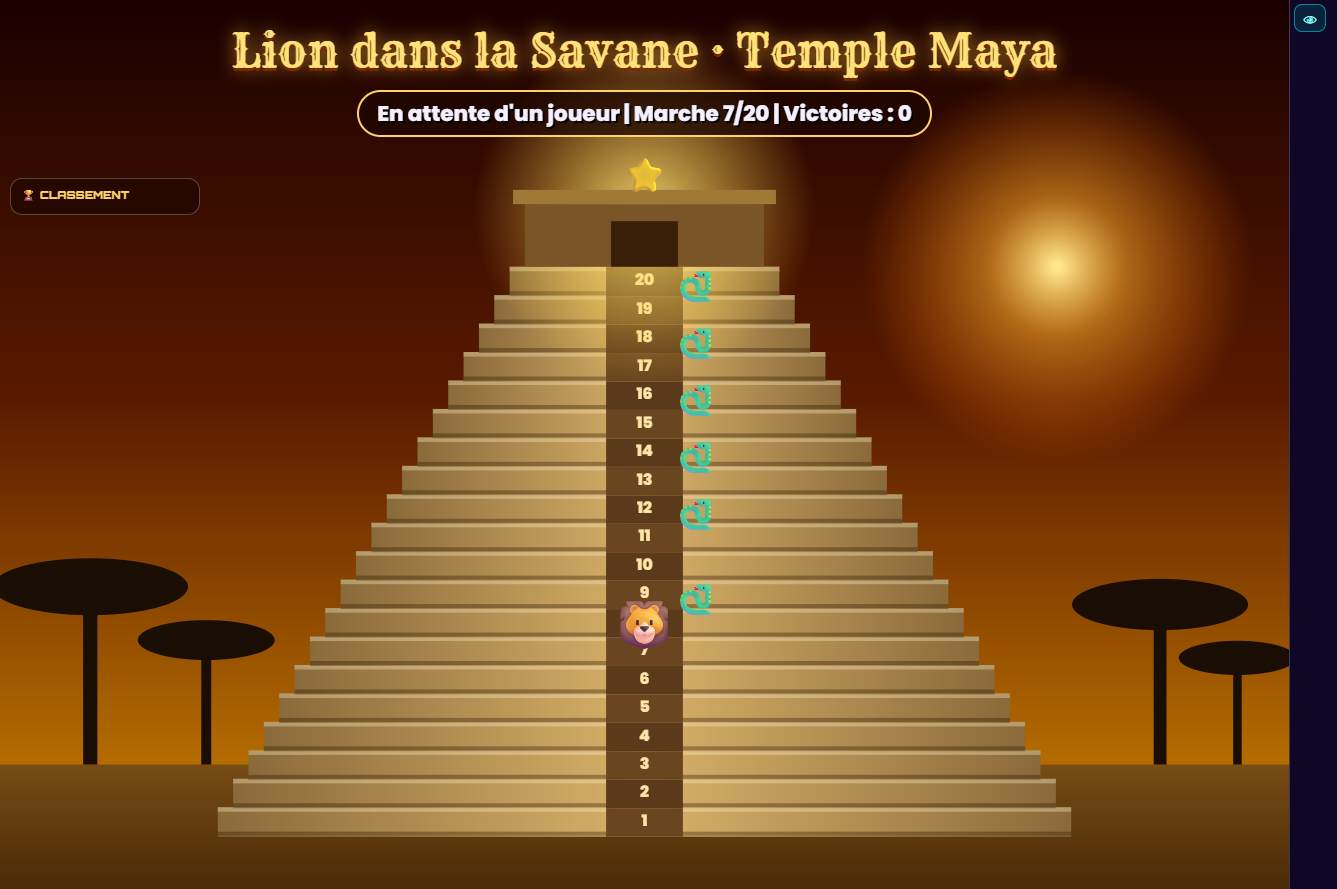
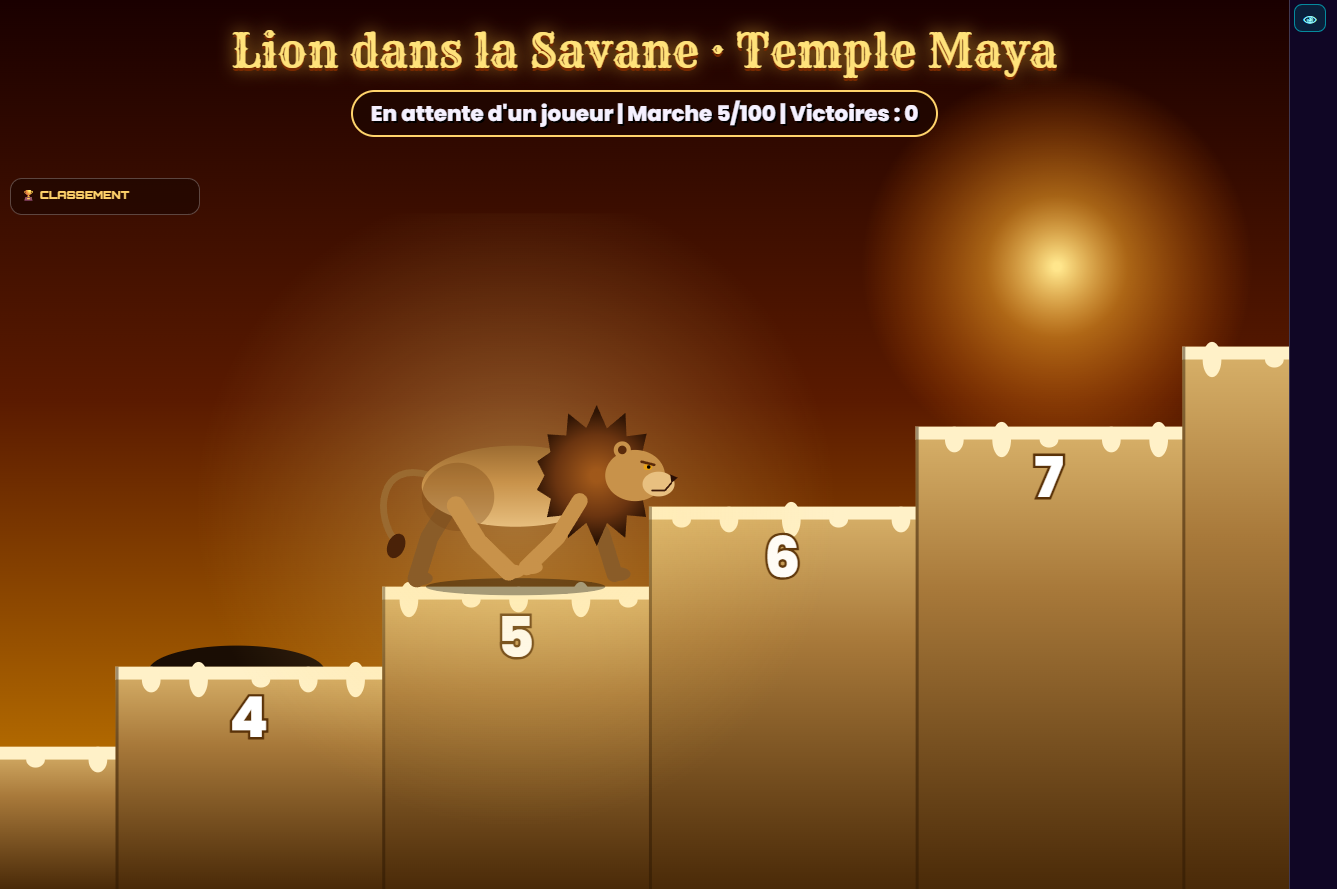
Lion Temple Maya : 100 marches, lion realiste a 4 pattes, style de marche du jeu de reference

diff --git a/lion-temple-maya.html b/lion-temple-maya.html
@@ -101,9 +101,9 @@
                 <h3>Réglages</h3>
                 <div class="row">
                     <label>⭐ au sommet<input id="summit" type="number" min="0" max="10000" value="100"></label>
-                    <label>🐍 obstacles<input id="obstacles" type="number" min="0" max="18" value="7"></label>
+                    <label>🐍 obstacles<input id="obstacles" type="number" min="0" max="60" value="33"></label>
                 </div>
-                <label>Recul après obstacle (marches)<input id="back" type="number" min="0" max="19" value="2"></label>
+                <label>Recul après obstacle (marches)<input id="back" type="number" min="0" max="99" value="2"></label>
             </section>
             <section class="box">
                 <h3>Simulateur (sans étoiles réelles)</h3>
@@ -130,8 +130,9 @@
         'use strict';
         const $ = id => document.getElementById(id);
         const SAVE_KEY = 'lion-temple-maya-save';
-        const TOP = 20;
-        const settings = { summit: 100, obstacles: 7, back: 2, speed: 1, hideBoard: false };
+        const TOP = 100, VIS = 14;
+        const settings = { summit: 100, obstacles: 33, back: 2, speed: 1, hideBoard: false };
+        let cam = 0;
         const viewers = new Map();
         const queue = [];
         let pos = 0, posDisp = 0, seg = null, moves = [], obst = new Set(), victories = 0;
@@ -187,67 +188,154 @@
         addEventListener('resize', resize);
 
         function geo() {
-            const w = canvas.width, h = canvas.height, base = h * 0.94, top = h * 0.3;
-            return { w, h, base, top, th: (base - top) / TOP, bw: Math.min(w * 0.78, (base - top) * 1.5), cx: w / 2 };
+            const w = canvas.width, h = canvas.height;
+            return { w, h, top: h * 0.3, th: h * 0.09, SW: h * 0.3, SH: h * 0.09, ax: w * 0.4, ay: h * 0.66, cx: w * 0.4 };
         }
-        const half = (g, i) => g.bw / 2 * (1 - 0.72 * i / TOP);
-        const stepY = (g, s) => g.base - s * g.th;
-        const lionSize = g => Math.max(28, Math.min(90, g.th * 1.7));
+        const smooth = t => t * t * (3 - 2 * t);
+        const jumpT = f => Math.min(1, Math.max(0, (f - 0.4) / 0.6));
+        function heightOf(p) {
+            const n = Math.min(TOP, Math.max(0, Math.floor(p)));
+            return n >= TOP ? TOP : n + smooth(jumpT(p - n));
+        }
+        const stepX = (g, s) => g.ax + (s - cam) * g.SW;
+        const stepY = (g, s) => g.ay - (s - heightOf(cam)) * g.SH;
 
         function buildObstacles() {
             obst = new Set();
-            const n = Math.min(18, Math.max(0, settings.obstacles));
+            const n = Math.min(TOP - 2, Math.max(0, settings.obstacles));
             while (obst.size < n) obst.add(rand(2, TOP - 1));
+        }
+
+        function drawStar(x, y, r) {
+            ctx.save();
+            const glow = ctx.createRadialGradient(x, y, 2, x, y, r * 3);
+            glow.addColorStop(0, 'rgba(255,230,120,.9)'); glow.addColorStop(1, 'rgba(255,200,60,0)');
+            ctx.fillStyle = glow; ctx.fillRect(x - r * 3, y - r * 3, r * 6, r * 6);
+            ctx.beginPath();
+            for (let i = 0; i < 10; i++) {
+                const a = -Math.PI / 2 + i * Math.PI / 5, rr = i % 2 ? r * 0.45 : r;
+                ctx.lineTo(x + Math.cos(a) * rr, y + Math.sin(a) * rr);
+            }
+            ctx.closePath();
+            const gr = ctx.createLinearGradient(x, y - r, x, y + r);
+            gr.addColorStop(0, '#fff3a0'); gr.addColorStop(0.5, '#ffc800'); gr.addColorStop(1, '#b87800');
+            ctx.fillStyle = gr; ctx.fill(); ctx.lineWidth = 2; ctx.strokeStyle = '#7a4a00'; ctx.stroke();
+            ctx.restore();
+        }
+
+        /* lion de profil à 4 pattes, en train de gravir les marches ; ph = phase de la foulée */
+        function drawLion(x, y, s, ph, tilt) {
+            ctx.save();
+            ctx.translate(x, y);
+            ctx.fillStyle = 'rgba(0,0,0,.35)'; ctx.beginPath(); ctx.ellipse(0, 0, s * 0.42, s * 0.04, 0, 0, Math.PI * 2); ctx.fill();
+            ctx.rotate(-tilt); ctx.scale(s, s);
+            ctx.translate(0, -Math.abs(Math.sin(ph / 2)) * 0.03);
+            ctx.lineCap = 'round'; ctx.lineJoin = 'round';
+            const fur = '#c8924a', furDark = '#9a6a30', furLight = '#e8c080';
+            const leg = (hx, hy, p, col, hind) => {
+                const a = Math.sin(p) * 0.55, lift = Math.max(0, Math.cos(p));
+                const kx = hx + Math.sin(a) * 0.2, ky = hy + Math.cos(a) * 0.2;
+                const b = a + (hind ? 1 : -1) * (0.25 + lift * 0.8);
+                const fx = kx + Math.sin(b) * 0.2, fy = ky + Math.cos(b) * 0.2 - lift * 0.05;
+                ctx.strokeStyle = col; ctx.lineWidth = hind ? 0.085 : 0.075;
+                ctx.beginPath(); ctx.moveTo(hx, hy); ctx.lineTo(kx, ky); ctx.lineTo(fx, fy); ctx.stroke();
+                ctx.fillStyle = col; ctx.beginPath(); ctx.ellipse(fx + 0.02, fy, 0.055, 0.032, 0, 0, Math.PI * 2); ctx.fill();
+            };
+            // queue
+            ctx.strokeStyle = furDark; ctx.lineWidth = 0.032;
+            ctx.beginPath(); ctx.moveTo(-0.4, -0.5); ctx.bezierCurveTo(-0.65, -0.58, -0.66, -0.3, -0.56, -0.22 + Math.sin(ph) * 0.03); ctx.stroke();
+            ctx.fillStyle = '#4a2208'; ctx.beginPath(); ctx.ellipse(-0.56, -0.2 + Math.sin(ph) * 0.03, 0.04, 0.06, 0.4, 0, Math.PI * 2); ctx.fill();
+            // pattes éloignées
+            leg(-0.3, -0.38, ph + Math.PI, '#8a5c28', true);
+            leg(0.3, -0.4, ph, '#8a5c28', false);
+            // corps
+            const body = ctx.createLinearGradient(0, -0.65, 0, -0.25);
+            body.addColorStop(0, furDark); body.addColorStop(0.45, fur); body.addColorStop(1, furLight);
+            ctx.fillStyle = body; ctx.beginPath(); ctx.ellipse(0, -0.45, 0.44, 0.19, 0, 0, Math.PI * 2); ctx.fill();
+            ctx.fillStyle = 'rgba(120,70,20,.35)'; ctx.beginPath(); ctx.ellipse(-0.27, -0.4, 0.17, 0.16, 0, 0, Math.PI * 2); ctx.fill();
+            // pattes proches
+            leg(-0.28, -0.36, ph, fur, true);
+            // crinière
+            const mc = { x: 0.38, y: -0.5 }, mg = ctx.createRadialGradient(mc.x, mc.y, 0.03, mc.x, mc.y, 0.3);
+            mg.addColorStop(0, '#a0581a'); mg.addColorStop(0.6, '#6a3410'); mg.addColorStop(1, '#2e1404');
+            ctx.fillStyle = mg; ctx.beginPath();
+            for (let i = 0; i <= 28; i++) {
+                const a = i / 28 * Math.PI * 2, r = (i % 2 ? 0.3 : 0.23) + Math.sin(i * 2.7 + ph) * 0.015;
+                ctx.lineTo(mc.x + Math.cos(a) * r, mc.y + Math.sin(a) * r * 1.05);
+            }
+            ctx.closePath(); ctx.fill();
+            leg(0.3, -0.38, ph + Math.PI, fur, false);
+            // tête
+            ctx.fillStyle = fur; ctx.beginPath(); ctx.ellipse(0.56, -0.5, 0.14, 0.12, 0, 0, Math.PI * 2); ctx.fill();
+            ctx.fillStyle = furLight; ctx.beginPath(); ctx.ellipse(0.67, -0.46, 0.075, 0.058, 0, 0, Math.PI * 2); ctx.fill();
+            ctx.fillStyle = fur; ctx.beginPath(); ctx.arc(0.5, -0.62, 0.04, 0, Math.PI * 2); ctx.fill();
+            ctx.fillStyle = '#5a2a0a'; ctx.beginPath(); ctx.arc(0.5, -0.62, 0.02, 0, Math.PI * 2); ctx.fill();
+            ctx.fillStyle = '#2a0e04'; ctx.beginPath(); ctx.moveTo(0.725, -0.505); ctx.lineTo(0.76, -0.49); ctx.lineTo(0.73, -0.465); ctx.closePath(); ctx.fill();
+            ctx.strokeStyle = '#3a1808'; ctx.lineWidth = 0.008;
+            ctx.beginPath(); ctx.moveTo(0.73, -0.465); ctx.lineTo(0.7, -0.43); ctx.lineTo(0.64, -0.43); ctx.stroke();
+            ctx.fillStyle = '#e8a010'; ctx.beginPath(); ctx.ellipse(0.62, -0.54, 0.02, 0.014, 0, 0, Math.PI * 2); ctx.fill();
+            ctx.fillStyle = '#000'; ctx.beginPath(); ctx.arc(0.624, -0.54, 0.008, 0, Math.PI * 2); ctx.fill();
+            ctx.strokeStyle = '#5a2a0a'; ctx.lineWidth = 0.012;
+            ctx.beginPath(); ctx.moveTo(0.59, -0.565); ctx.lineTo(0.65, -0.55); ctx.stroke();
+            ctx.restore();
         }
 
         function drawSavanna(g) {
             const sun = ctx.createRadialGradient(g.w * 0.82, g.h * 0.3, 4, g.w * 0.82, g.h * 0.3, g.h * 0.22);
             sun.addColorStop(0, 'rgba(255,230,140,1)'); sun.addColorStop(0.35, 'rgba(255,170,40,.55)'); sun.addColorStop(1, 'rgba(255,120,0,0)');
             ctx.fillStyle = sun; ctx.fillRect(0, 0, g.w, g.h);
-            const gr = ctx.createLinearGradient(0, g.h * 0.8, 0, g.h);
-            gr.addColorStop(0, '#8a5a1a'); gr.addColorStop(1, '#4a2a08');
-            ctx.fillStyle = gr; ctx.fillRect(0, g.h * 0.86, g.w, g.h * 0.14);
-            const acacia = (x, s) => {
+            // acacias lointains qui défilent doucement
+            const span = g.w + 500, ty = g.h * 0.8 + heightOf(cam) * g.SH * 0.3;
+            [[0, 0.2], [380, 0.14], [820, 0.18], [1250, 0.12]].forEach(([off, k]) => {
+                const x = ((off - cam * g.SW * 0.25) % span + span) % span - 250, s = g.h * k;
                 ctx.fillStyle = '#1a0d04';
-                ctx.fillRect(x - s * 0.04, g.h * 0.86 - s, s * 0.08, s);
-                ctx.beginPath(); ctx.ellipse(x, g.h * 0.86 - s, s * 0.55, s * 0.16, 0, 0, Math.PI * 2); ctx.fill();
-            };
-            acacia(g.w * 0.07, g.h * 0.2); acacia(g.w * 0.16, g.h * 0.14); acacia(g.w * 0.9, g.h * 0.18); acacia(g.w * 0.96, g.h * 0.12);
+                ctx.fillRect(x - s * 0.04, ty - s, s * 0.08, s);
+                ctx.beginPath(); ctx.ellipse(x, ty - s, s * 0.55, s * 0.16, 0, 0, Math.PI * 2); ctx.fill();
+            });
         }
 
         function drawTemple(g) {
-            const sw = Math.max(14, g.bw * 0.045);
-            for (let i = 0; i < TOP; i++) {
-                const hw = half(g, i), y = stepY(g, i + 1);
-                const gr = ctx.createLinearGradient(g.cx - hw, 0, g.cx + hw, 0);
-                gr.addColorStop(0, '#8a6a3a'); gr.addColorStop(0.5, '#d9b26a'); gr.addColorStop(1, '#8a6a3a');
-                ctx.fillStyle = gr; ctx.fillRect(g.cx - hw, y, hw * 2, g.th + 1);
-                ctx.fillStyle = 'rgba(255,240,200,.35)'; ctx.fillRect(g.cx - hw, y, hw * 2, g.th * 0.16);
-                ctx.fillStyle = 'rgba(40,20,0,.35)'; ctx.fillRect(g.cx - hw, y + g.th * 0.86, hw * 2, g.th * 0.14);
-                ctx.fillStyle = i % 2 ? '#5a3a1a' : '#6a4620'; ctx.fillRect(g.cx - sw, y, sw * 2, g.th + 1);
-                ctx.fillStyle = '#ffe6a8'; ctx.font = `800 ${Math.max(8, g.th * 0.55)}px Poppins, sans-serif`;
-                ctx.textAlign = 'center'; ctx.textBaseline = 'middle';
-                ctx.fillText(String(i + 1), g.cx, y + g.th * 0.52);
+            const from = Math.max(0, Math.floor(cam) - Math.ceil(g.ax / g.SW) - 1), to = Math.min(TOP, Math.ceil(cam + (g.w - g.ax) / g.SW) + 1);
+            ctx.textAlign = 'center'; ctx.textBaseline = 'middle';
+            for (let i = from; i <= to; i++) {
+                const x0 = stepX(g, i) - g.SW / 2, y = stepY(g, i);
+                const gr = ctx.createLinearGradient(0, y, 0, g.h);
+                gr.addColorStop(0, '#d9b26a'); gr.addColorStop(0.35, '#a8793a'); gr.addColorStop(1, '#4a2a08');
+                ctx.fillStyle = gr; ctx.fillRect(x0, y, g.SW + 1, g.h - y + 2);
+                // dessus clair façon glaçage, avec petites coulures
+                ctx.fillStyle = '#fff1c8'; ctx.fillRect(x0, y, g.SW + 1, g.SH * 0.16);
+                for (let k = 0; k < 5; k++) {
+                    const dx = x0 + g.SW * (0.1 + k * 0.2) + ((i * 7 + k * 3) % 5) * 3;
+                    ctx.beginPath(); ctx.ellipse(dx, y + g.SH * 0.16, g.SW * 0.035, g.SH * (0.1 + ((i + k) % 3) * 0.06), 0, 0, Math.PI * 2); ctx.fill();
+                }
+                ctx.fillStyle = 'rgba(40,20,0,.45)'; ctx.fillRect(x0, y, 3, g.h - y);
+                ctx.font = `800 ${g.SH * 0.7}px Poppins, sans-serif`;
+                ctx.lineWidth = 5; ctx.strokeStyle = '#5a3208'; ctx.strokeText(String(i), x0 + g.SW / 2, y + g.SH * 0.7);
+                ctx.fillStyle = '#fff'; ctx.fillText(String(i), x0 + g.SW / 2, y + g.SH * 0.7);
             }
-            const hw = half(g, TOP), ty = stepY(g, TOP);
-            const glow = ctx.createRadialGradient(g.cx, ty - g.th * 2, 4, g.cx, ty - g.th * 2, g.th * 6);
-            glow.addColorStop(0, 'rgba(255,230,120,.85)'); glow.addColorStop(1, 'rgba(255,200,60,0)');
-            ctx.fillStyle = glow; ctx.fillRect(g.cx - g.th * 6, ty - g.th * 8, g.th * 12, g.th * 12);
-            ctx.fillStyle = '#7a5528'; ctx.fillRect(g.cx - hw, ty - g.th * 2.2, hw * 2, g.th * 2.2);
-            ctx.fillStyle = '#3a1f08'; ctx.fillRect(g.cx - hw * 0.28, ty - g.th * 1.6, hw * 0.56, g.th * 1.6);
-            ctx.fillStyle = '#a07838'; ctx.fillRect(g.cx - hw * 1.1, ty - g.th * 2.7, hw * 2.2, g.th * 0.5);
-            ctx.font = `${g.th * 1.2}px "Segoe UI Emoji", "Noto Color Emoji", sans-serif`; ctx.textBaseline = 'alphabetic';
-            ctx.fillText('⭐', g.cx, ty - g.th * 2.8);
+            // temple et étoile dorée au sommet
+            const tx = stepX(g, TOP), ty = stepY(g, TOP);
+            if (tx > -g.SW * 2 && tx < g.w + g.SW * 2) {
+                const bx = tx - g.SW * 0.4, bw = g.SW * 0.8;
+                ctx.fillStyle = '#7a5528'; ctx.fillRect(bx, ty - g.SH * 2.2, bw, g.SH * 2.2);
+                ctx.fillStyle = '#3a1f08'; ctx.fillRect(tx - bw * 0.14, ty - g.SH * 1.6, bw * 0.28, g.SH * 1.6);
+                ctx.fillStyle = '#a07838'; ctx.fillRect(bx - bw * 0.06, ty - g.SH * 2.7, bw * 1.12, g.SH * 0.5);
+                drawStar(tx, ty - g.SH * 3.8, g.SH * 1.3);
+            }
         }
 
         function drawActors(g) {
-            const fs = Math.max(18, g.th * 1.1);
+            const fs = Math.max(18, g.SH * 0.9);
             ctx.font = `${fs}px "Segoe UI Emoji", "Noto Color Emoji", sans-serif`;
             ctx.textAlign = 'center'; ctx.textBaseline = 'alphabetic';
-            obst.forEach(s => ctx.fillText('🐍', g.cx + g.bw * 0.045 + fs * 0.4, stepY(g, s) + fs * 0.1));
-            const ls = lionSize(g), hop = seg && seg.kind === 'up' ? Math.sin(Math.PI * Math.min(1, seg.t / seg.dur)) * g.th * 0.8 : 0;
-            ctx.font = `${ls}px "Segoe UI Emoji", "Noto Color Emoji", sans-serif`;
-            ctx.fillText('🦁', g.cx, stepY(g, posDisp) - hop + ls * 0.12);
+            obst.forEach(s => { const x = stepX(g, s); if (x > -g.SW && x < g.w + g.SW) ctx.fillText('🐍', x + g.SW * 0.3, stepY(g, s)); });
+            const n = Math.min(TOP, Math.floor(posDisp)), f = posDisp - n;
+            const lx = stepX(g, posDisp), ly = stepY(g, heightOf(posDisp)) - Math.sin(Math.PI * jumpT(f)) * g.SH * 0.8;
+            // halo de lumière sur le lion
+            const halo = ctx.createRadialGradient(lx, ly - g.SH, 10, lx, ly - g.SH, g.SW * 1.2);
+            halo.addColorStop(0, 'rgba(255,230,150,.35)'); halo.addColorStop(1, 'rgba(255,200,80,0)');
+            ctx.fillStyle = halo; ctx.fillRect(lx - g.SW * 1.2, ly - g.SW * 1.4, g.SW * 2.4, g.SW * 2.4);
+            drawLion(lx, ly, g.SW * 0.8, posDisp * Math.PI * 4 + Math.PI / 2, jumpT(f) > 0 && jumpT(f) < 1 ? 0.3 : 0);
         }
 
         function floatText(text, x, y) {
@@ -305,7 +393,7 @@
             say(`🏆 @${entry.viewer.username} mène le lion au sommet : +${settings.summit} ⭐ !`);
             showVip(entry.viewer);
             const g = geo();
-            floatText(`🏆 +${settings.summit} ⭐`, g.cx, stepY(g, TOP) - g.th * 4);
+            floatText(`🏆 +${settings.summit} ⭐`, stepX(g, TOP), stepY(g, TOP) - g.th * 4);
             sndWin();
             if (window.ArcadeEffects) ArcadeEffects.fireworks(g.cx, g.top, true);
             resetAt = clock + 4;
@@ -328,7 +416,7 @@
                 obst.delete(done.hit);
                 sndDown();
                 say(`🐍 @${done.who.username} bute sur un obstacle : le lion recule de ${done.hit - done.to} marche${done.hit - done.to > 1 ? 's' : ''} !`);
-                const g = geo(); floatText('🐍', g.cx, stepY(g, done.hit) - g.th * 2);
+                const g = geo(); floatText('🐍', stepX(g, done.hit), stepY(g, done.hit) - g.th * 2);
             }
             if (done.win) victory(done.win);
         }
@@ -355,6 +443,7 @@
             } else if (!seg && !moves.length && !resetAt && queue.length && clock >= nextAt) planStep();
             stepSeg(dt);
             const g = geo();
+            cam += (posDisp - cam) * Math.min(1, dt * 6);
             ctx.clearRect(0, 0, canvas.width, canvas.height);
             drawSavanna(g); drawTemple(g); drawActors(g);
             updateScoreboard();
@@ -451,7 +540,7 @@
             const nums = () => {
                 const clamp = (v, lo, hi, d) => Number.isFinite(v) ? Math.min(hi, Math.max(lo, Math.floor(v))) : d;
                 settings.summit = clamp(Number($('summit').value), 0, 10000, 100);
-                settings.obstacles = clamp(Number($('obstacles').value), 0, 18, 7);
+                settings.obstacles = clamp(Number($('obstacles').value), 0, 60, 33);
                 settings.back = clamp(Number($('back').value), 0, 19, 2);
                 saveGame();
             };
